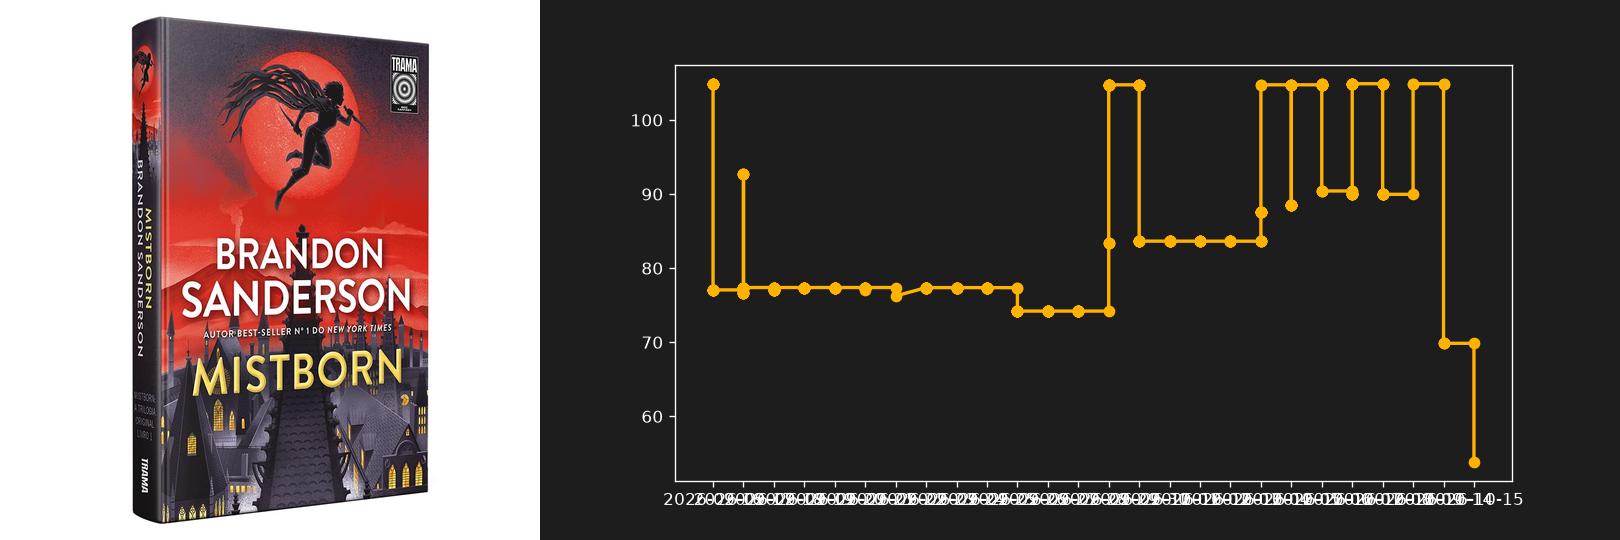
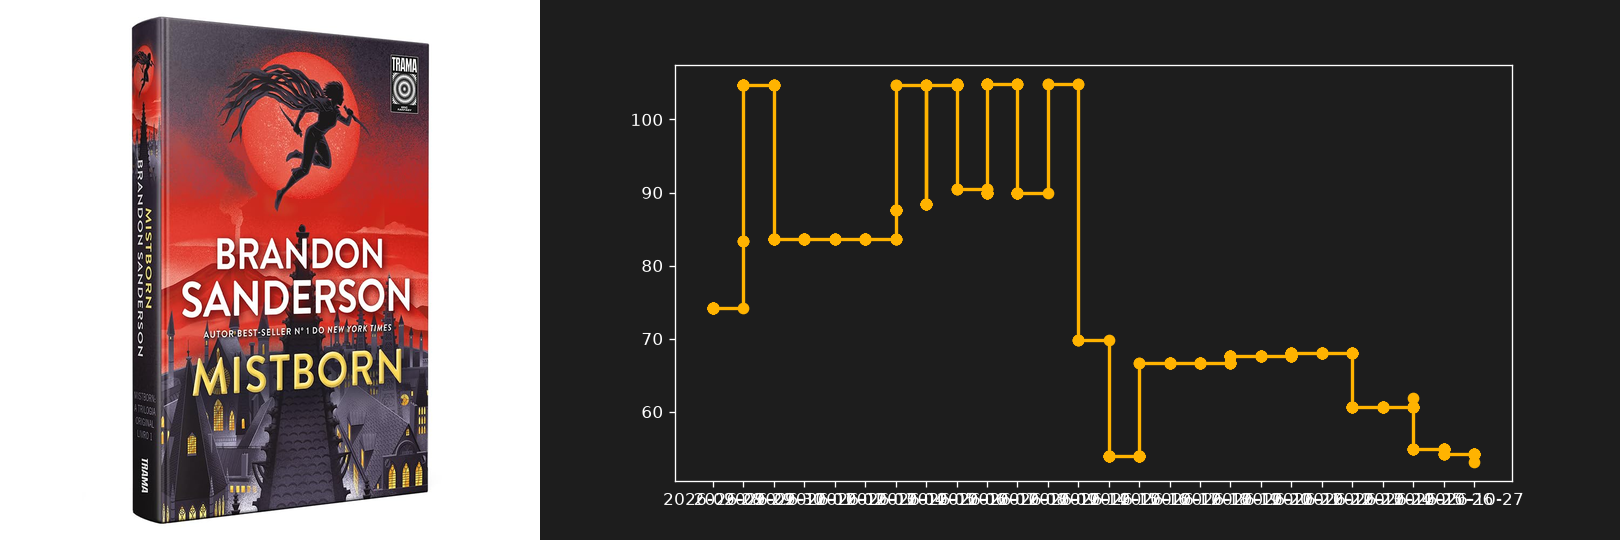
Atualizacao automatica: Novos precos e graficos

diff --git a/index.html b/index.html
@@ -48,7 +48,7 @@
             <div class="flex flex-col mt-auto mb-5">
                 <div class="flex items-baseline gap-2">
                     <span class="text-2xl font-bold text-white tracking-tight">R$ 223,92</span>
-                    <span class="text-sm text-gray-500 line-through">R$ 258,63</span>
+                    <span class="text-sm text-gray-500 line-through">R$ 258,55</span>
                 </div>
             </div>
             <a href="https://link.amazon/B0bxqDHXJ" target="_blank" rel="nofollow noopener" class="w-full flex items-center justify-center gap-2 py-2.5 rounded-xl bg-white/5 hover:bg-bardo-gold hover:text-bardo-dark text-sm font-bold text-gray-200 transition-all">Comprar na Amazon</a>
@@ -68,7 +68,7 @@
             <div class="flex flex-col mt-auto mb-5">
                 <div class="flex items-baseline gap-2">
                     <span class="text-2xl font-bold text-white tracking-tight">R$ 57,53</span>
-                    <span class="text-sm text-gray-500 line-through">R$ 60,09</span>
+                    <span class="text-sm text-gray-500 line-through">R$ 60,08</span>
                 </div>
             </div>
             <a href="https://link.amazon/B05C027gt" target="_blank" rel="nofollow noopener" class="w-full flex items-center justify-center gap-2 py-2.5 rounded-xl bg-white/5 hover:bg-bardo-gold hover:text-bardo-dark text-sm font-bold text-gray-200 transition-all">Comprar na Amazon</a>
@@ -148,7 +148,7 @@
             <div class="flex flex-col mt-auto mb-5">
                 <div class="flex items-baseline gap-2">
                     <span class="text-2xl font-bold text-white tracking-tight">R$ 118,35</span>
-                    <span class="text-sm text-gray-500 line-through">R$ 137,28</span>
+                    <span class="text-sm text-gray-500 line-through">R$ 137,23</span>
                 </div>
             </div>
             <a href="https://link.amazon/B04OFbHZF" target="_blank" rel="nofollow noopener" class="w-full flex items-center justify-center gap-2 py-2.5 rounded-xl bg-white/5 hover:bg-bardo-gold hover:text-bardo-dark text-sm font-bold text-gray-200 transition-all">Comprar na Amazon</a>
@@ -168,7 +168,7 @@
             <div class="flex flex-col mt-auto mb-5">
                 <div class="flex items-baseline gap-2">
                     <span class="text-2xl font-bold text-white tracking-tight">R$ 126,25</span>
-                    <span class="text-sm text-gray-500 line-through">R$ 121,52</span>
+                    <span class="text-sm text-gray-500 line-through">R$ 121,54</span>
                 </div>
             </div>
             <a href="https://link.amazon/B0bOFsgQ9" target="_blank" rel="nofollow noopener" class="w-full flex items-center justify-center gap-2 py-2.5 rounded-xl bg-white/5 hover:bg-bardo-gold hover:text-bardo-dark text-sm font-bold text-gray-200 transition-all">Comprar na Amazon</a>
@@ -228,7 +228,7 @@
             <div class="flex flex-col mt-auto mb-5">
                 <div class="flex items-baseline gap-2">
                     <span class="text-2xl font-bold text-white tracking-tight">R$ 79,24</span>
-                    <span class="text-sm text-gray-500 line-through">R$ 77,23</span>
+                    <span class="text-sm text-gray-500 line-through">R$ 77,24</span>
                 </div>
             </div>
             <a href="https://link.amazon/B01CIGwaZ" target="_blank" rel="nofollow noopener" class="w-full flex items-center justify-center gap-2 py-2.5 rounded-xl bg-white/5 hover:bg-bardo-gold hover:text-bardo-dark text-sm font-bold text-gray-200 transition-all">Comprar na Amazon</a>
@@ -248,7 +248,7 @@
             <div class="flex flex-col mt-auto mb-5">
                 <div class="flex items-baseline gap-2">
                     <span class="text-2xl font-bold text-white tracking-tight">R$ 414,48</span>
-                    <span class="text-sm text-gray-500 line-through">R$ 400,28</span>
+                    <span class="text-sm text-gray-500 line-through">R$ 400,31</span>
                 </div>
             </div>
             <a href="https://link.amazon/B0czAwuOp" target="_blank" rel="nofollow noopener" class="w-full flex items-center justify-center gap-2 py-2.5 rounded-xl bg-white/5 hover:bg-bardo-gold hover:text-bardo-dark text-sm font-bold text-gray-200 transition-all">Comprar na Amazon</a>
@@ -287,8 +287,8 @@
             <h3 class="text-base font-semibold text-gray-100 leading-snug line-clamp-2 mb-4 group-hover:text-bardo-gold transition-colors">Mistborn: O Império Final: Livro 1 de Mistborn</h3>
             <div class="flex flex-col mt-auto mb-5">
                 <div class="flex items-baseline gap-2">
-                    <span class="text-2xl font-bold text-white tracking-tight">R$ 54,22</span>
-                    <span class="text-sm text-gray-500 line-through">R$ 75,09</span>
+                    <span class="text-2xl font-bold text-white tracking-tight">R$ 53,15</span>
+                    <span class="text-sm text-gray-500 line-through">R$ 75,04</span>
                 </div>
             </div>
             <a href="https://link.amazon/B0bJ5jTSU" target="_blank" rel="nofollow noopener" class="w-full flex items-center justify-center gap-2 py-2.5 rounded-xl bg-white/5 hover:bg-bardo-gold hover:text-bardo-dark text-sm font-bold text-gray-200 transition-all">Comprar na Amazon</a>
@@ -308,7 +308,7 @@
             <div class="flex flex-col mt-auto mb-5">
                 <div class="flex items-baseline gap-2">
                     <span class="text-2xl font-bold text-white tracking-tight">R$ 55,07</span>
-                    <span class="text-sm text-gray-500 line-through">R$ 53,66</span>
+                    <span class="text-sm text-gray-500 line-through">R$ 53,67</span>
                 </div>
             </div>
             <a href="https://link.amazon/B075ASsRo" target="_blank" rel="nofollow noopener" class="w-full flex items-center justify-center gap-2 py-2.5 rounded-xl bg-white/5 hover:bg-bardo-gold hover:text-bardo-dark text-sm font-bold text-gray-200 transition-all">Comprar na Amazon</a>
@@ -368,7 +368,7 @@
             <div class="flex flex-col mt-auto mb-5">
                 <div class="flex items-baseline gap-2">
                     <span class="text-2xl font-bold text-white tracking-tight">R$ 98,10</span>
-                    <span class="text-sm text-gray-500 line-through">R$ 108,10</span>
+                    <span class="text-sm text-gray-500 line-through">R$ 108,07</span>
                 </div>
             </div>
             <a href="https://link.amazon/B0g8PJdyP" target="_blank" rel="nofollow noopener" class="w-full flex items-center justify-center gap-2 py-2.5 rounded-xl bg-white/5 hover:bg-bardo-gold hover:text-bardo-dark text-sm font-bold text-gray-200 transition-all">Comprar na Amazon</a>
@@ -408,7 +408,7 @@
             <div class="flex flex-col mt-auto mb-5">
                 <div class="flex items-baseline gap-2">
                     <span class="text-2xl font-bold text-white tracking-tight">R$ 111,60</span>
-                    <span class="text-sm text-gray-500 line-through">R$ 122,83</span>
+                    <span class="text-sm text-gray-500 line-through">R$ 122,80</span>
                 </div>
             </div>
             <a href="https://link.amazon/B0cBFS3o1" target="_blank" rel="nofollow noopener" class="w-full flex items-center justify-center gap-2 py-2.5 rounded-xl bg-white/5 hover:bg-bardo-gold hover:text-bardo-dark text-sm font-bold text-gray-200 transition-all">Comprar na Amazon</a>
@@ -428,14 +428,14 @@
             <div class="flex flex-col mt-auto mb-5">
                 <div class="flex items-baseline gap-2">
                     <span class="text-2xl font-bold text-white tracking-tight">R$ 148,29</span>
-                    <span class="text-sm text-gray-500 line-through">R$ 144,44</span>
+                    <span class="text-sm text-gray-500 line-through">R$ 144,45</span>
                 </div>
             </div>
             <a href="https://link.amazon/B0f81O992" target="_blank" rel="nofollow noopener" class="w-full flex items-center justify-center gap-2 py-2.5 rounded-xl bg-white/5 hover:bg-bardo-gold hover:text-bardo-dark text-sm font-bold text-gray-200 transition-all">Comprar na Amazon</a>
         </div>
     </article>
     <article class="relative flex flex-col bg-surface rounded-2xl border border-white/5 overflow-hidden hover:border-bardo-gold/40 transition-all duration-300 group shadow-lg">
-        <div class="absolute top-3 left-3 z-10"><span class="px-2.5 py-1 text-[11px] font-bold uppercase tracking-wider text-emerald-400 bg-emerald-500/10 border border-emerald-500/20 rounded-full backdrop-blur-md shadow-lg">Abaixo da Média</span></div>
+        
         <!-- Vitrine com Efeito Hover Swap -->
         <div class="relative h-64 w-full bg-gradient-to-b from-white/[0.03] to-transparent border-b border-white/5 overflow-hidden">
             <!-- Imagem 1: Capa (Soma ao Hover) -->
@@ -488,7 +488,7 @@
             <div class="flex flex-col mt-auto mb-5">
                 <div class="flex items-baseline gap-2">
                     <span class="text-2xl font-bold text-white tracking-tight">R$ 39,80</span>
-                    <span class="text-sm text-gray-500 line-through">R$ 35,80</span>
+                    <span class="text-sm text-gray-500 line-through">R$ 35,81</span>
                 </div>
             </div>
             <a href="https://link.amazon/B0eRR4Vm5" target="_blank" rel="nofollow noopener" class="w-full flex items-center justify-center gap-2 py-2.5 rounded-xl bg-white/5 hover:bg-bardo-gold hover:text-bardo-dark text-sm font-bold text-gray-200 transition-all">Comprar na Amazon</a>
@@ -508,7 +508,7 @@
             <div class="flex flex-col mt-auto mb-5">
                 <div class="flex items-baseline gap-2">
                     <span class="text-2xl font-bold text-white tracking-tight">R$ 70,85</span>
-                    <span class="text-sm text-gray-500 line-through">R$ 73,90</span>
+                    <span class="text-sm text-gray-500 line-through">R$ 73,89</span>
                 </div>
             </div>
             <a href="https://link.amazon/B0aqYDLFU" target="_blank" rel="nofollow noopener" class="w-full flex items-center justify-center gap-2 py-2.5 rounded-xl bg-white/5 hover:bg-bardo-gold hover:text-bardo-dark text-sm font-bold text-gray-200 transition-all">Comprar na Amazon</a>
@@ -528,7 +528,7 @@
             <div class="flex flex-col mt-auto mb-5">
                 <div class="flex items-baseline gap-2">
                     <span class="text-2xl font-bold text-white tracking-tight">R$ 152,87</span>
-                    <span class="text-sm text-gray-500 line-through">R$ 154,76</span>
+                    <span class="text-sm text-gray-500 line-through">R$ 154,75</span>
                 </div>
             </div>
             <a href="https://link.amazon/B01Lo4CLZ" target="_blank" rel="nofollow noopener" class="w-full flex items-center justify-center gap-2 py-2.5 rounded-xl bg-white/5 hover:bg-bardo-gold hover:text-bardo-dark text-sm font-bold text-gray-200 transition-all">Comprar na Amazon</a>
@@ -548,7 +548,7 @@
             <div class="flex flex-col mt-auto mb-5">
                 <div class="flex items-baseline gap-2">
                     <span class="text-2xl font-bold text-white tracking-tight">R$ 76,62</span>
-                    <span class="text-sm text-gray-500 line-through">R$ 83,00</span>
+                    <span class="text-sm text-gray-500 line-through">R$ 82,98</span>
                 </div>
             </div>
             <a href="https://link.amazon/B0fHxeIhM" target="_blank" rel="nofollow noopener" class="w-full flex items-center justify-center gap-2 py-2.5 rounded-xl bg-white/5 hover:bg-bardo-gold hover:text-bardo-dark text-sm font-bold text-gray-200 transition-all">Comprar na Amazon</a>
@@ -568,7 +568,7 @@
             <div class="flex flex-col mt-auto mb-5">
                 <div class="flex items-baseline gap-2">
                     <span class="text-2xl font-bold text-white tracking-tight">R$ 67,78</span>
-                    <span class="text-sm text-gray-500 line-through">R$ 74,93</span>
+                    <span class="text-sm text-gray-500 line-through">R$ 74,92</span>
                 </div>
             </div>
             <a href="https://link.amazon/B09kGQop8" target="_blank" rel="nofollow noopener" class="w-full flex items-center justify-center gap-2 py-2.5 rounded-xl bg-white/5 hover:bg-bardo-gold hover:text-bardo-dark text-sm font-bold text-gray-200 transition-all">Comprar na Amazon</a>
@@ -588,7 +588,7 @@
             <div class="flex flex-col mt-auto mb-5">
                 <div class="flex items-baseline gap-2">
                     <span class="text-2xl font-bold text-white tracking-tight">R$ 285,85</span>
-                    <span class="text-sm text-gray-500 line-through">R$ 251,84</span>
+                    <span class="text-sm text-gray-500 line-through">R$ 251,92</span>
                 </div>
             </div>
             <a href="https://link.amazon/B046QvncM" target="_blank" rel="nofollow noopener" class="w-full flex items-center justify-center gap-2 py-2.5 rounded-xl bg-white/5 hover:bg-bardo-gold hover:text-bardo-dark text-sm font-bold text-gray-200 transition-all">Comprar na Amazon</a>
@@ -608,7 +608,7 @@
             <div class="flex flex-col mt-auto mb-5">
                 <div class="flex items-baseline gap-2">
                     <span class="text-2xl font-bold text-white tracking-tight">R$ 189,91</span>
-                    <span class="text-sm text-gray-500 line-through">R$ 182,34</span>
+                    <span class="text-sm text-gray-500 line-through">R$ 182,35</span>
                 </div>
             </div>
             <a href="https://link.amazon/B037mPoB1" target="_blank" rel="nofollow noopener" class="w-full flex items-center justify-center gap-2 py-2.5 rounded-xl bg-white/5 hover:bg-bardo-gold hover:text-bardo-dark text-sm font-bold text-gray-200 transition-all">Comprar na Amazon</a>
@@ -628,7 +628,7 @@
             <div class="flex flex-col mt-auto mb-5">
                 <div class="flex items-baseline gap-2">
                     <span class="text-2xl font-bold text-white tracking-tight">R$ 44,00</span>
-                    <span class="text-sm text-gray-500 line-through">R$ 41,07</span>
+                    <span class="text-sm text-gray-500 line-through">R$ 41,08</span>
                 </div>
             </div>
             <a href="https://link.amazon/B0ja4Ste6" target="_blank" rel="nofollow noopener" class="w-full flex items-center justify-center gap-2 py-2.5 rounded-xl bg-white/5 hover:bg-bardo-gold hover:text-bardo-dark text-sm font-bold text-gray-200 transition-all">Comprar na Amazon</a>
@@ -648,7 +648,7 @@
             <div class="flex flex-col mt-auto mb-5">
                 <div class="flex items-baseline gap-2">
                     <span class="text-2xl font-bold text-white tracking-tight">R$ 51,88</span>
-                    <span class="text-sm text-gray-500 line-through">R$ 54,98</span>
+                    <span class="text-sm text-gray-500 line-through">R$ 54,97</span>
                 </div>
             </div>
             <a href="https://link.amazon/B0cIs9iDO" target="_blank" rel="nofollow noopener" class="w-full flex items-center justify-center gap-2 py-2.5 rounded-xl bg-white/5 hover:bg-bardo-gold hover:text-bardo-dark text-sm font-bold text-gray-200 transition-all">Comprar na Amazon</a>
@@ -668,7 +668,7 @@
             <div class="flex flex-col mt-auto mb-5">
                 <div class="flex items-baseline gap-2">
                     <span class="text-2xl font-bold text-white tracking-tight">R$ 42,71</span>
-                    <span class="text-sm text-gray-500 line-through">R$ 54,05</span>
+                    <span class="text-sm text-gray-500 line-through">R$ 54,02</span>
                 </div>
             </div>
             <a href="https://link.amazon/B0gViTEpL" target="_blank" rel="nofollow noopener" class="w-full flex items-center justify-center gap-2 py-2.5 rounded-xl bg-white/5 hover:bg-bardo-gold hover:text-bardo-dark text-sm font-bold text-gray-200 transition-all">Comprar na Amazon</a>
@@ -788,7 +788,7 @@
             <div class="flex flex-col mt-auto mb-5">
                 <div class="flex items-baseline gap-2">
                     <span class="text-2xl font-bold text-white tracking-tight">R$ 29,84</span>
-                    <span class="text-sm text-gray-500 line-through">R$ 39,65</span>
+                    <span class="text-sm text-gray-500 line-through">R$ 39,62</span>
                 </div>
             </div>
             <a href="https://link.amazon/B0aKkKOM2" target="_blank" rel="nofollow noopener" class="w-full flex items-center justify-center gap-2 py-2.5 rounded-xl bg-white/5 hover:bg-bardo-gold hover:text-bardo-dark text-sm font-bold text-gray-200 transition-all">Comprar na Amazon</a>
@@ -808,7 +808,7 @@
             <div class="flex flex-col mt-auto mb-5">
                 <div class="flex items-baseline gap-2">
                     <span class="text-2xl font-bold text-white tracking-tight">R$ 129,03</span>
-                    <span class="text-sm text-gray-500 line-through">R$ 139,67</span>
+                    <span class="text-sm text-gray-500 line-through">R$ 139,64</span>
                 </div>
             </div>
             <a href="https://link.amazon/B02R68ory" target="_blank" rel="nofollow noopener" class="w-full flex items-center justify-center gap-2 py-2.5 rounded-xl bg-white/5 hover:bg-bardo-gold hover:text-bardo-dark text-sm font-bold text-gray-200 transition-all">Comprar na Amazon</a>
@@ -828,7 +828,7 @@
             <div class="flex flex-col mt-auto mb-5">
                 <div class="flex items-baseline gap-2">
                     <span class="text-2xl font-bold text-white tracking-tight">R$ 52,37</span>
-                    <span class="text-sm text-gray-500 line-through">R$ 53,77</span>
+                    <span class="text-sm text-gray-500 line-through">R$ 53,76</span>
                 </div>
             </div>
             <a href="https://link.amazon/B0hzsQMzC" target="_blank" rel="nofollow noopener" class="w-full flex items-center justify-center gap-2 py-2.5 rounded-xl bg-white/5 hover:bg-bardo-gold hover:text-bardo-dark text-sm font-bold text-gray-200 transition-all">Comprar na Amazon</a>
@@ -847,8 +847,8 @@
             <h3 class="text-base font-semibold text-gray-100 leading-snug line-clamp-2 mb-4 group-hover:text-bardo-gold transition-colors">Box The Witcher</h3>
             <div class="flex flex-col mt-auto mb-5">
                 <div class="flex items-baseline gap-2">
-                    <span class="text-2xl font-bold text-white tracking-tight">R$ 496,29</span>
-                    <span class="text-sm text-gray-500 line-through">R$ 478,54</span>
+                    <span class="text-2xl font-bold text-white tracking-tight">R$ 483,33</span>
+                    <span class="text-sm text-gray-500 line-through">R$ 478,56</span>
                 </div>
             </div>
             <a href="https://link.amazon/B04zvHdbV" target="_blank" rel="nofollow noopener" class="w-full flex items-center justify-center gap-2 py-2.5 rounded-xl bg-white/5 hover:bg-bardo-gold hover:text-bardo-dark text-sm font-bold text-gray-200 transition-all">Comprar na Amazon</a>
@@ -928,7 +928,7 @@
             <div class="flex flex-col mt-auto mb-5">
                 <div class="flex items-baseline gap-2">
                     <span class="text-2xl font-bold text-white tracking-tight">R$ 62,60</span>
-                    <span class="text-sm text-gray-500 line-through">R$ 60,08</span>
+                    <span class="text-sm text-gray-500 line-through">R$ 60,09</span>
                 </div>
             </div>
             <a href="https://link.amazon/B0jllWIXN" target="_blank" rel="nofollow noopener" class="w-full flex items-center justify-center gap-2 py-2.5 rounded-xl bg-white/5 hover:bg-bardo-gold hover:text-bardo-dark text-sm font-bold text-gray-200 transition-all">Comprar na Amazon</a>
@@ -948,7 +948,7 @@
             <div class="flex flex-col mt-auto mb-5">
                 <div class="flex items-baseline gap-2">
                     <span class="text-2xl font-bold text-white tracking-tight">R$ 160,31</span>
-                    <span class="text-sm text-gray-500 line-through">R$ 152,09</span>
+                    <span class="text-sm text-gray-500 line-through">R$ 152,11</span>
                 </div>
             </div>
             <a href="https://link.amazon/B0fmYiyYt" target="_blank" rel="nofollow noopener" class="w-full flex items-center justify-center gap-2 py-2.5 rounded-xl bg-white/5 hover:bg-bardo-gold hover:text-bardo-dark text-sm font-bold text-gray-200 transition-all">Comprar na Amazon</a>
@@ -988,7 +988,7 @@
             <div class="flex flex-col mt-auto mb-5">
                 <div class="flex items-baseline gap-2">
                     <span class="text-2xl font-bold text-white tracking-tight">R$ 390,99</span>
-                    <span class="text-sm text-gray-500 line-through">R$ 323,09</span>
+                    <span class="text-sm text-gray-500 line-through">R$ 323,25</span>
                 </div>
             </div>
             <a href="https://link.amazon/B02mXXqIa" target="_blank" rel="nofollow noopener" class="w-full flex items-center justify-center gap-2 py-2.5 rounded-xl bg-white/5 hover:bg-bardo-gold hover:text-bardo-dark text-sm font-bold text-gray-200 transition-all">Comprar na Amazon</a>
